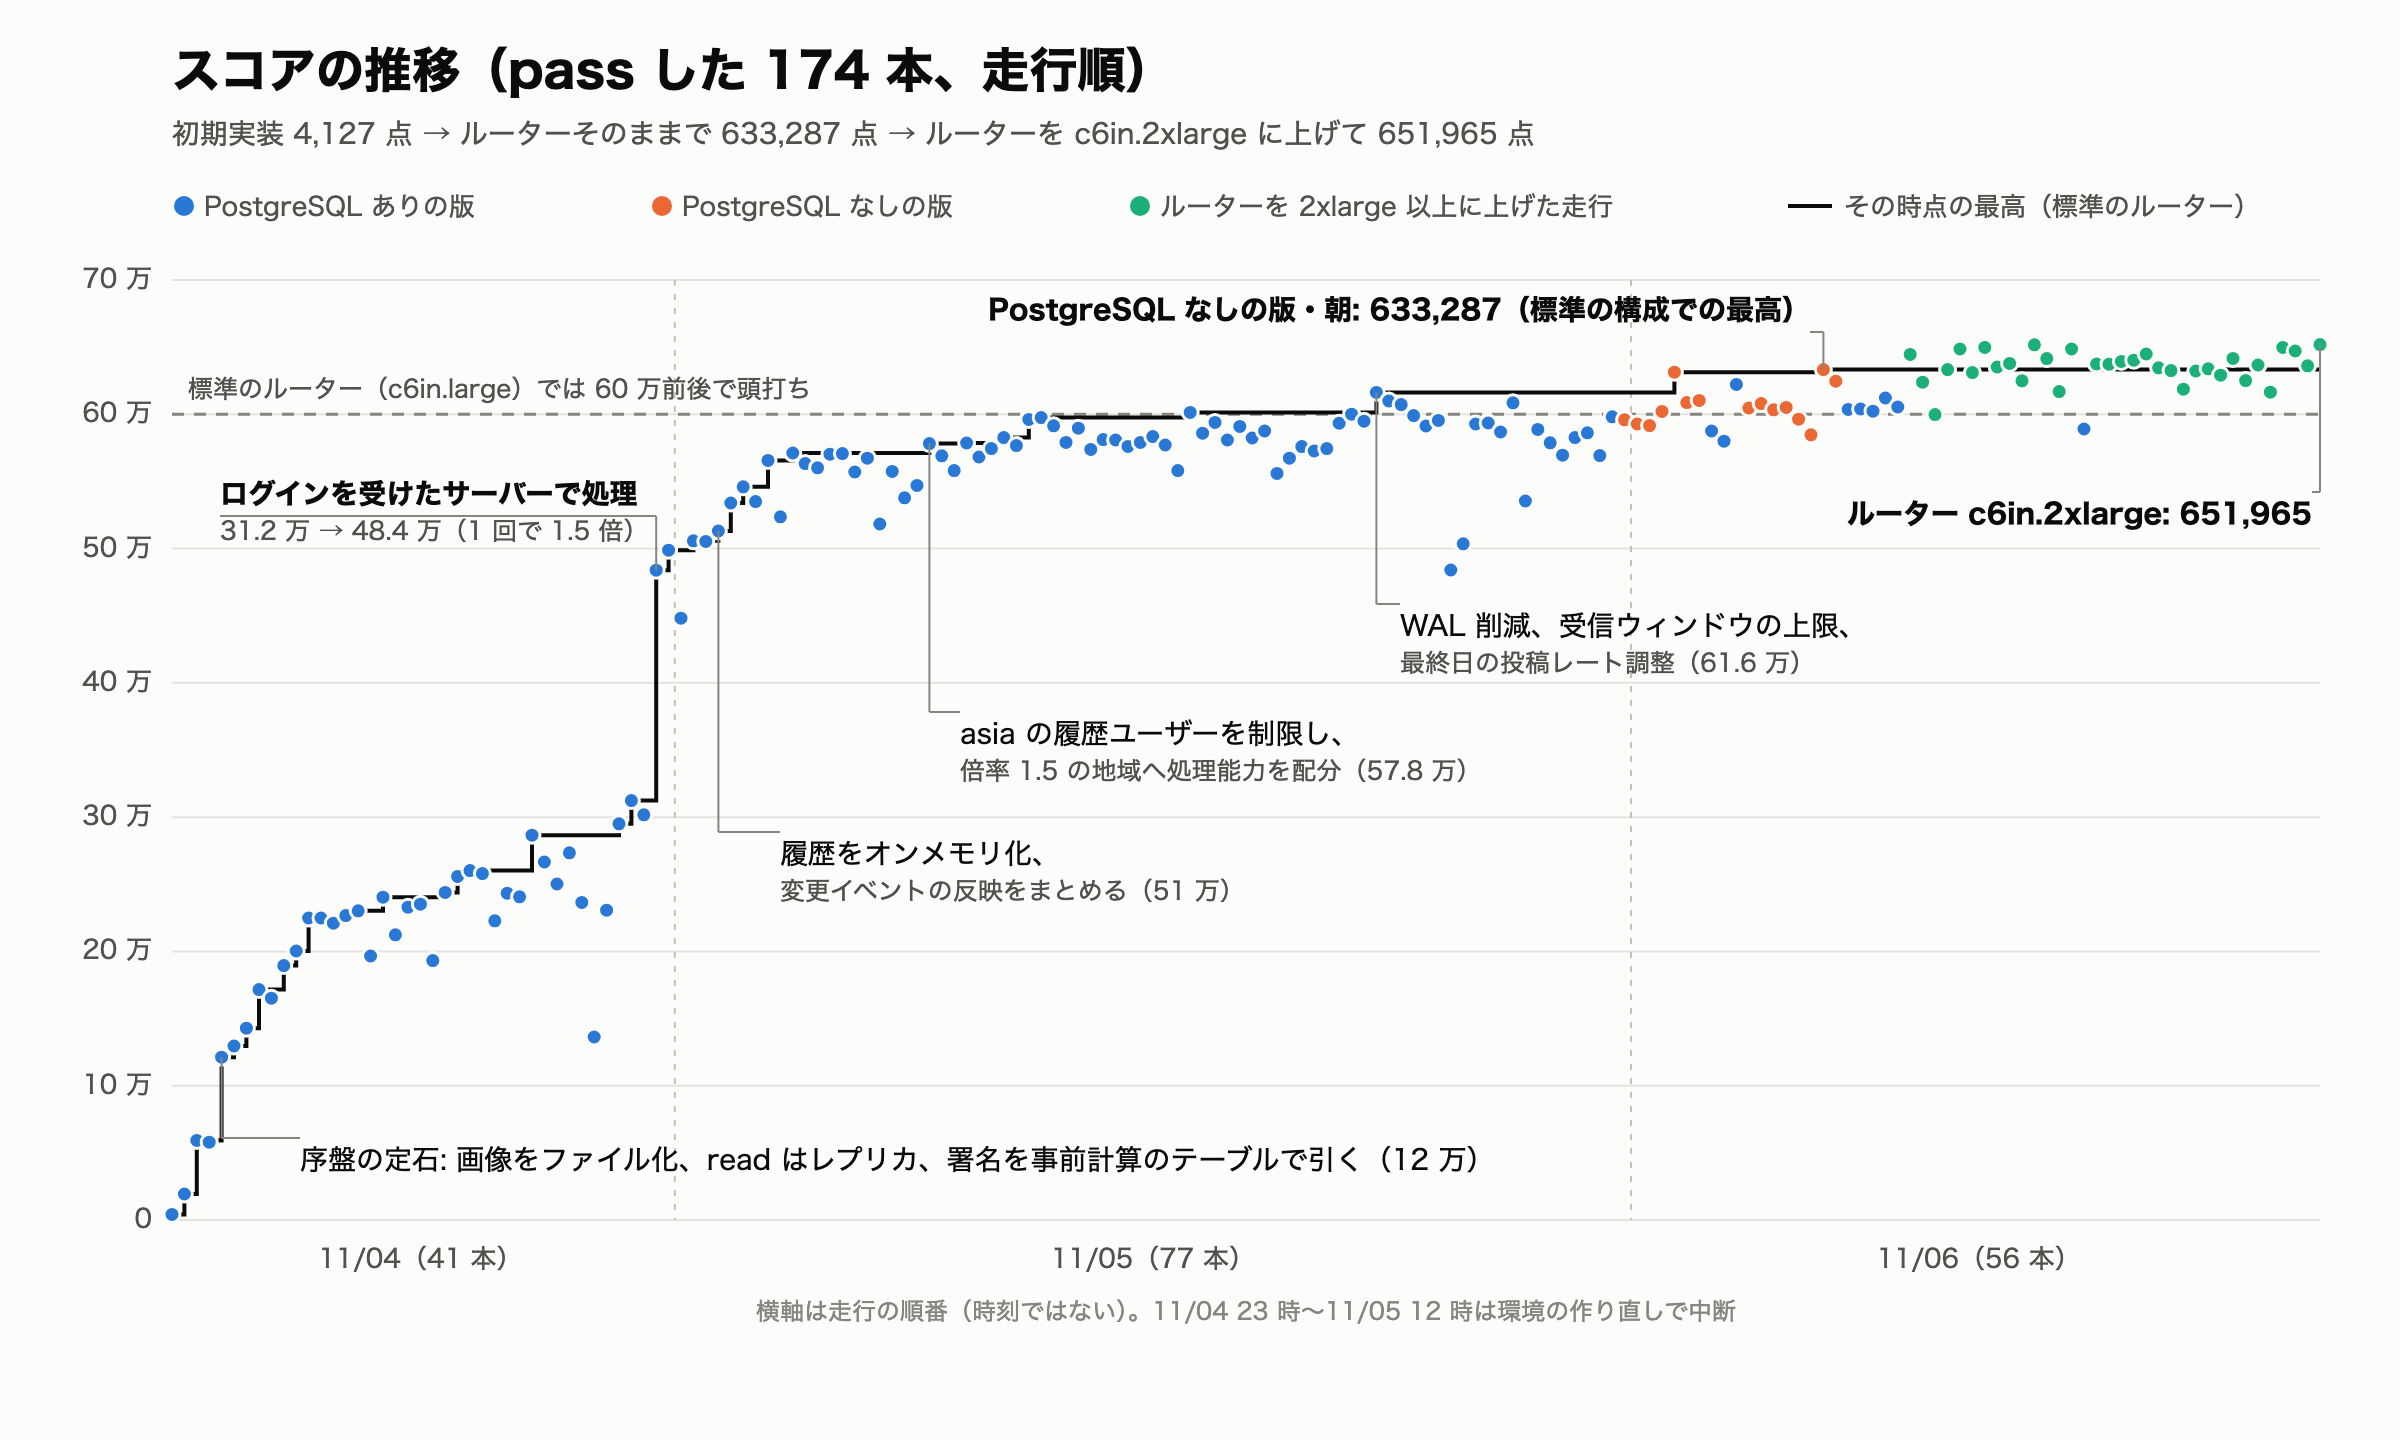
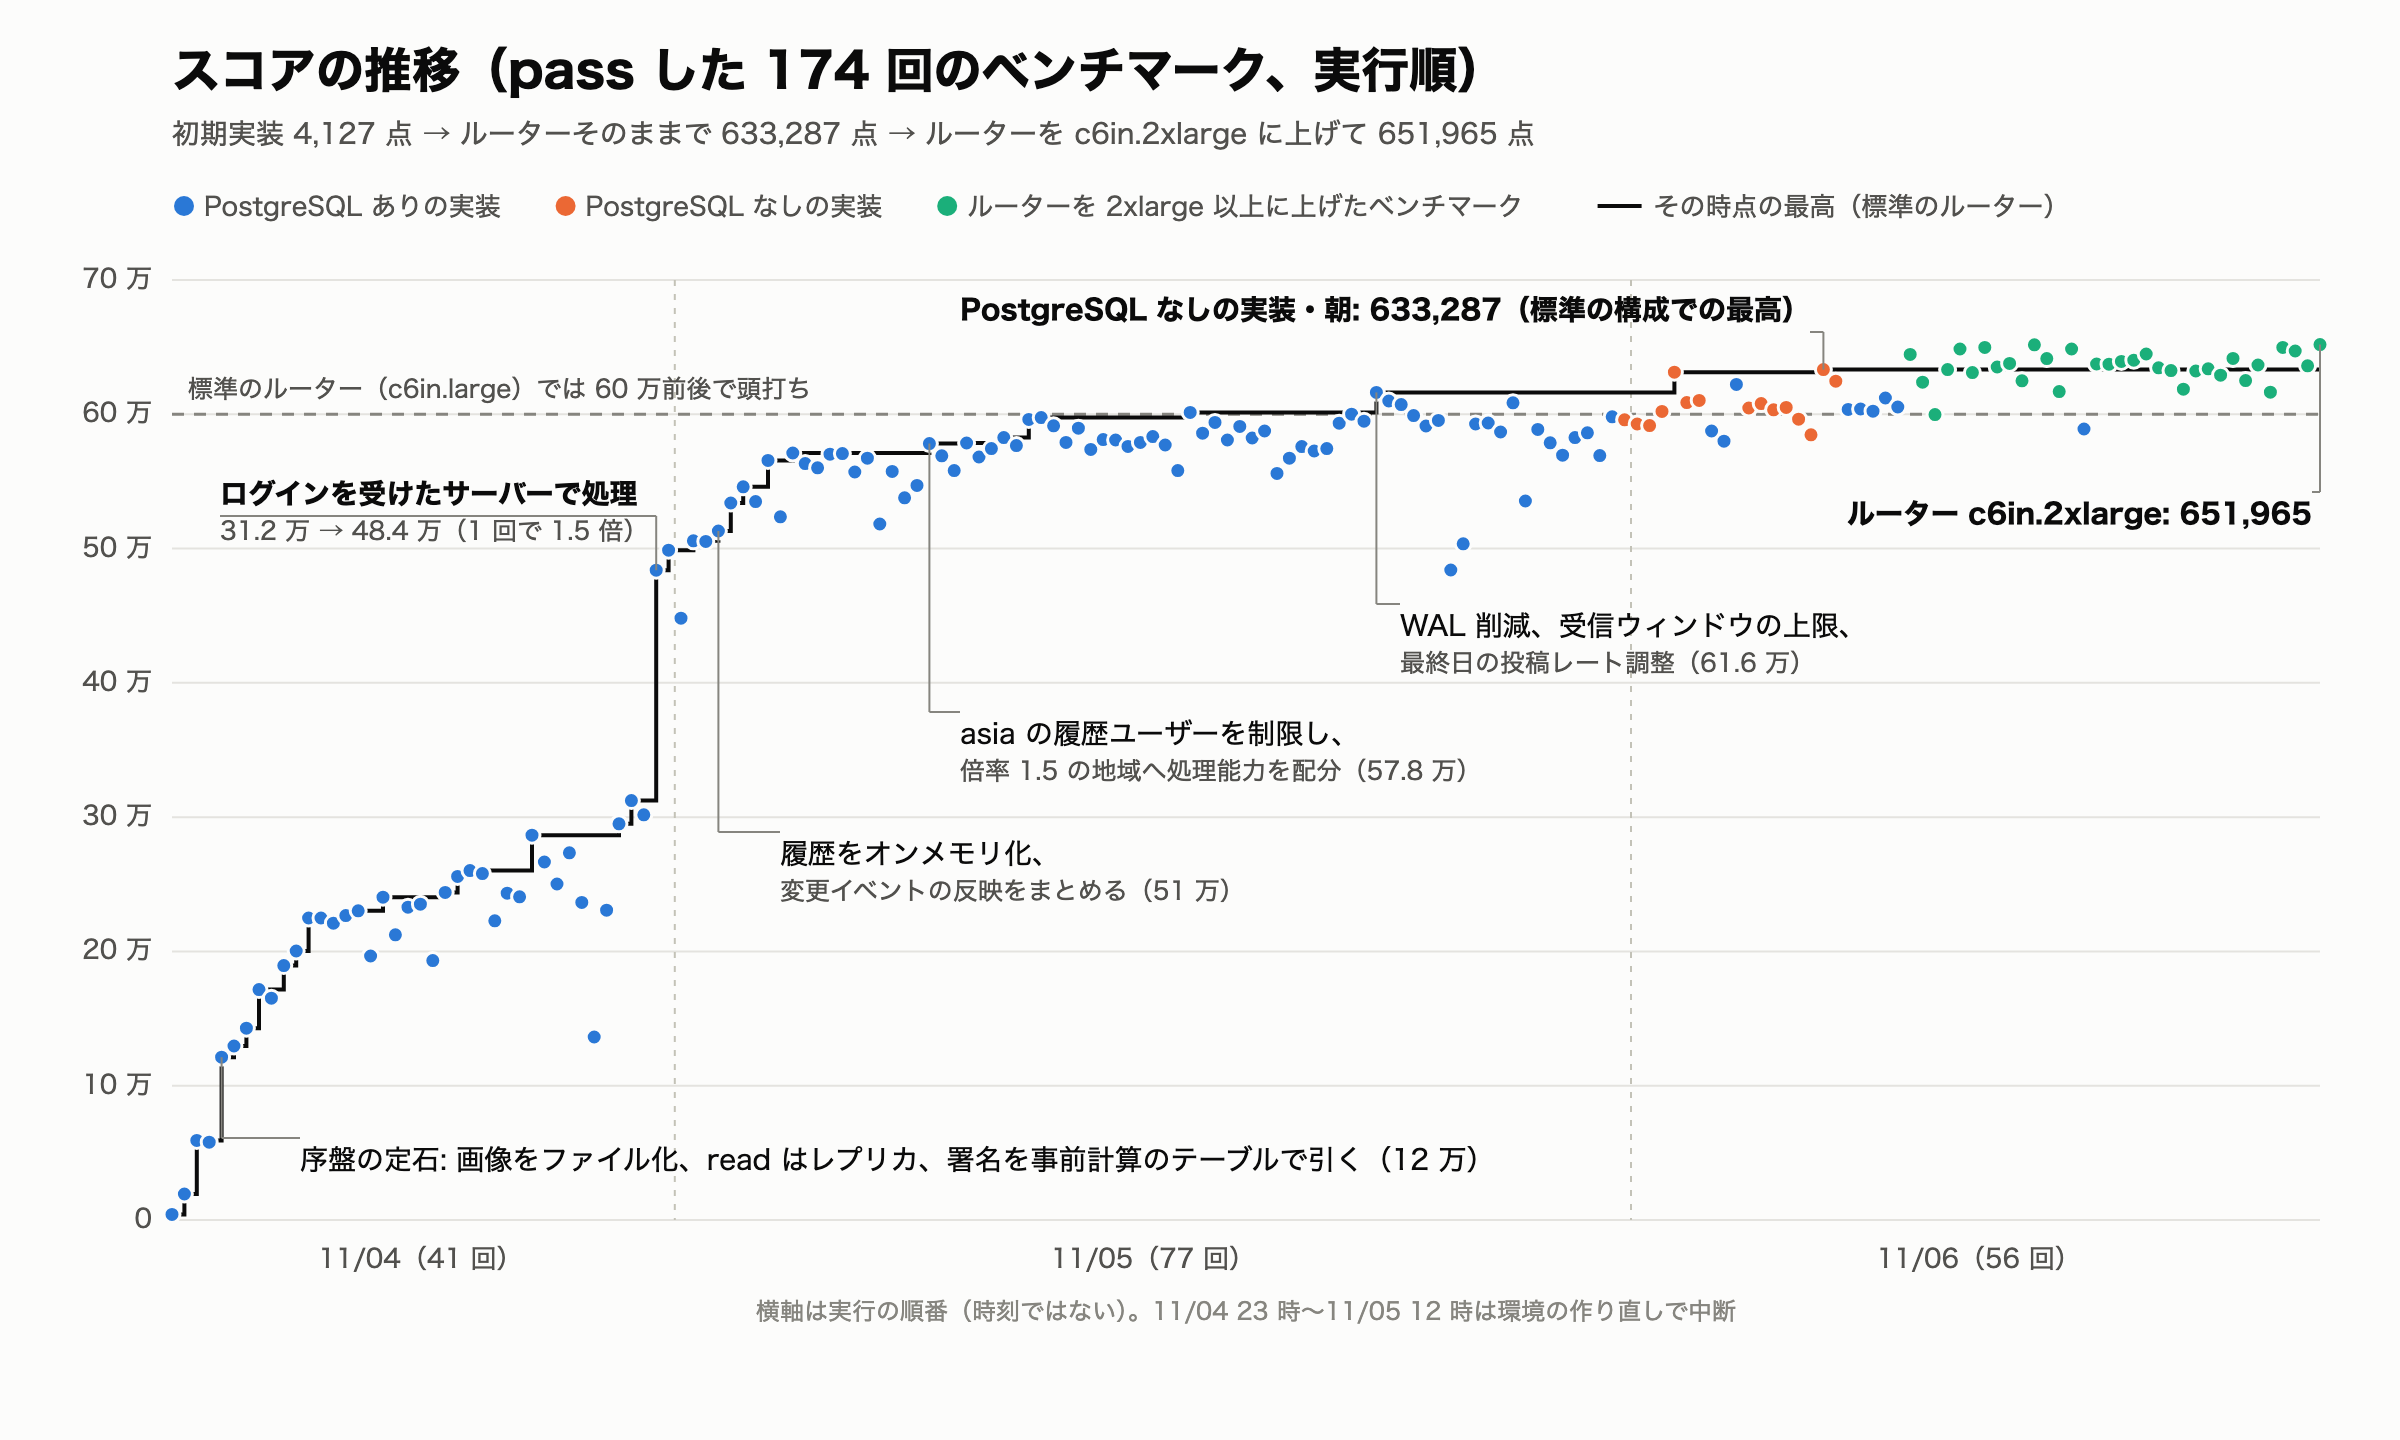
ベンチマークを「流す」「本」と書いていた所を「実行する」「回」に直す
記事と図の「PostgreSQL なしの版」も「実装」にそろえる。

Claude-Session: https://claude.ai/code/session_01L2L4qgADaDYs3drh8gtj2E

Changed region(s): [[0.1875, 0.125, 0.9375, 0.1562], [0.3438, 0.0312, 0.625, 0.0625], [0.4062, 0.1875, 0.5312, 0.25]]

diff --git a/articles/isucon2026-kansousen-630k.md b/articles/isucon2026-kansousen-630k.md
@@ -1,5 +1,5 @@
 ---
-title: "ISUCON2026 感想戦で 4,127 点から 63 万点へ ― AI エージェントと回した 180 本のベンチ"
+title: "ISUCON2026 感想戦で 4,127 点から 63 万点へ ― AI エージェントと実行した 180 回のベンチマーク"
 emoji: "📸"
 type: "tech"
 topics: ["isucon", "go", "postgresql", "aws", "performance"]
@@ -10,7 +10,7 @@ published: false
 
 https://zenn.dev/marie673/articles/isucon2026-full-harness
 
-前回の 3 回目の試行は最高 575,333 点でした。そのあと 4 回目の試行を始め、配布された構成のまま（ルーターのスペックは変えずに）**633,287 点** まで伸ばしました。初期実装の 4,127 点から、ベンチは 180 本ほど流しています。
+前回の 3 回目の試行は最高 575,333 点でした。そのあと 4 回目の試行を始め、配布された構成のまま（ルーターのスペックは変えずに）**633,287 点** まで伸ばしました。初期実装の 4,127 点から、ベンチマークは 180 回ほど実行しています。
 
 今回も実装と判断はエージェント（Claude Code）が持ちました。ただし 3 回目と違って、僕からも何度か問いを投げています。「65 万を目指して」「サーバーの外が原因でも、こちらからできることはないか」といったものです。それらの問いがどこで役に立ったかは、最後の節で触れます。
 
@@ -41,8 +41,8 @@ https://zenn.dev/marie673/articles/isucon2026-full-harness
 
 ## スコアの推移
 
-![pass した 174 本のスコアの推移。初期実装の 4,127 点から、ログインの処理の変更で 31 万から 48 万へ跳ね、60 万前後で頭打ちになり、PostgreSQL なしの実装が朝に 633,287 点、ルーターを上げた走行が 651,965 点に届く](/images/isucon2026-score-progress.png)
-*点は 1 本の走行、黒い線はその時点の最高（標準のルーター）。横軸は時刻ではなく走行の順番です*
+![pass した 174 回のベンチマークのスコアの推移。初期実装の 4,127 点から、ログインの処理の変更で 31 万から 48 万へ跳ね、60 万前後で頭打ちになり、PostgreSQL なしの実装が朝に 633,287 点、ルーターを上げた走行が 651,965 点に届く](/images/isucon2026-score-progress.png)
+*点は 1 回のベンチマーク、黒い線はその時点の最高（標準のルーター）。横軸は時刻ではなく実行の順番です*
 
 | スコア | やったこと |
 |---:|---|
@@ -124,7 +124,7 @@ https://zenn.dev/marie673/articles/isucon2026-full-harness
 ![レスポンスの量ごとの、履歴ユーザーの次のリクエストまでの間隔の中央値。c6in.large では 300MB/s までは 1〜3ms だが、400MB/s を超えると 14ms 前後に伸びる。c6in.2xlarge では同じ量で 10〜11.5ms](/images/isucon2026-bottleneck-router.png)
 *ルーターを上げた走行と並べると、同じレスポンスの量でも待ちが短くなります。ただし 2xlarge でも伸びは残ります*
 
-時間帯の差も大きく出ました。同じ実装でも、朝や深夜の空いた時間に流した 1 本は、後で書く補正をした値で 2.4〜3.2 万上振れします。ベンチは他のチームと共有しているので、混み具合が影響していると考えています。
+時間帯の差も大きく出ました。同じ実装でも、朝や深夜の空いた時間に実行したベンチマークは、後で書く補正をした値で 2.4〜3.2 万上振れします。ベンチは他のチームと共有しているので、混み具合が影響していると考えています。
 
 ## ルーターを上げずに出した 63 万点の構成
 
@@ -172,7 +172,7 @@ https://zenn.dev/marie673/articles/isucon2026-full-harness
 - アプリサーバーと asia2 の間は TCP 1 本で、転送・レスポンス・変更イベント・適用の確認を 4ms ごとにまとめて送ります。サーバー間のパケット数は write の件数に関係なく一定の上限に収まります。
 - レスポンスは「全アプリサーバーが適用し、かつ追記ログを fsync した後」に返します。リージョン間の往復のあいだに fsync は終わるので、遅くはなりません。
 - 再起動すると、asia2 は初期データのスナップショットに追記ログを再生して状態を戻します。アプリサーバーは asia2 につなぎ直して続きを受け取ります。
-- PostgreSQL ありの実装と同じリクエスト列を流して、558 手順で応答の差がゼロであることを確かめてから使いました。
+- PostgreSQL ありの実装と同じリクエスト列を送って、558 手順で応答の差がゼロであることを確かめてから使いました。
 
 PostgreSQL ありの実装では asia2 の PostgreSQL をプライマリ、europe1 と america1 を同期レプリカにしていました。設定は full_page_writes=off、write 接続の synchronous_commit=off、autovacuum のしきい値の引き上げです。
 
@@ -195,13 +195,13 @@ GOGC=400、GOMEMLIMIT=1150MiB は、メモリ 4GB のうち履歴と署名のテ
 
 60 万を超えると、施策の効果がばらつきより小さくなりました。そこで比べ方を決めました。
 
-- 1 本のスコアでは決めませんでした。5 日目のユーザー数（倍率込み）を説明変数にスコアを回帰し、実測との差（残差）で比べました。スコアのばらつきの大半はユーザー数の運でした。
-- 比べる設定は同じ時間帯に交互に流しました。ベンチの混み具合で残差が数万動くからです。
+- 1 回のスコアでは決めませんでした。5 日目のユーザー数（倍率込み）を説明変数にスコアを回帰し、実測との差（残差）で比べました。スコアのばらつきの大半はユーザー数の運でした。
+- 比べる設定のベンチマークは、同じ時間帯に交互に実行しました。ベンチの混み具合で残差が数万動くからです。
 - スコアではなく狙った項を見ました。履歴ユーザーの点を access log から毎回計算し、6 秒ごとに並べて、どの時間帯で何を失ったかを見ました。
 
 ## ルーターを上げた場合
 
-運営から「60〜65 万が見えたチームはルーターが詰まりだすので、スペックを上げると次が開ける」と聞いたので、僕がエージェントにルーターの変更を許可し、c6in.2xlarge に上げて流しました（環境チェックは通らない構成です）。
+運営から「60〜65 万が見えたチームはルーターが詰まりだすので、スペックを上げると次が開ける」と聞いたので、僕がエージェントにルーターの変更を許可し、c6in.2xlarge に上げてベンチマークを実行しました（環境チェックは通らない構成です）。
 
 - 同じ実装のまま 644,659 点になり、履歴ユーザーの点が +8% 増えました。最高は **651,965 点** です。
 - 4xlarge にしてもスコアは変わりませんでした。ルーターの CPU も帯域も余っていて、その先の上限はベンチ側です。
